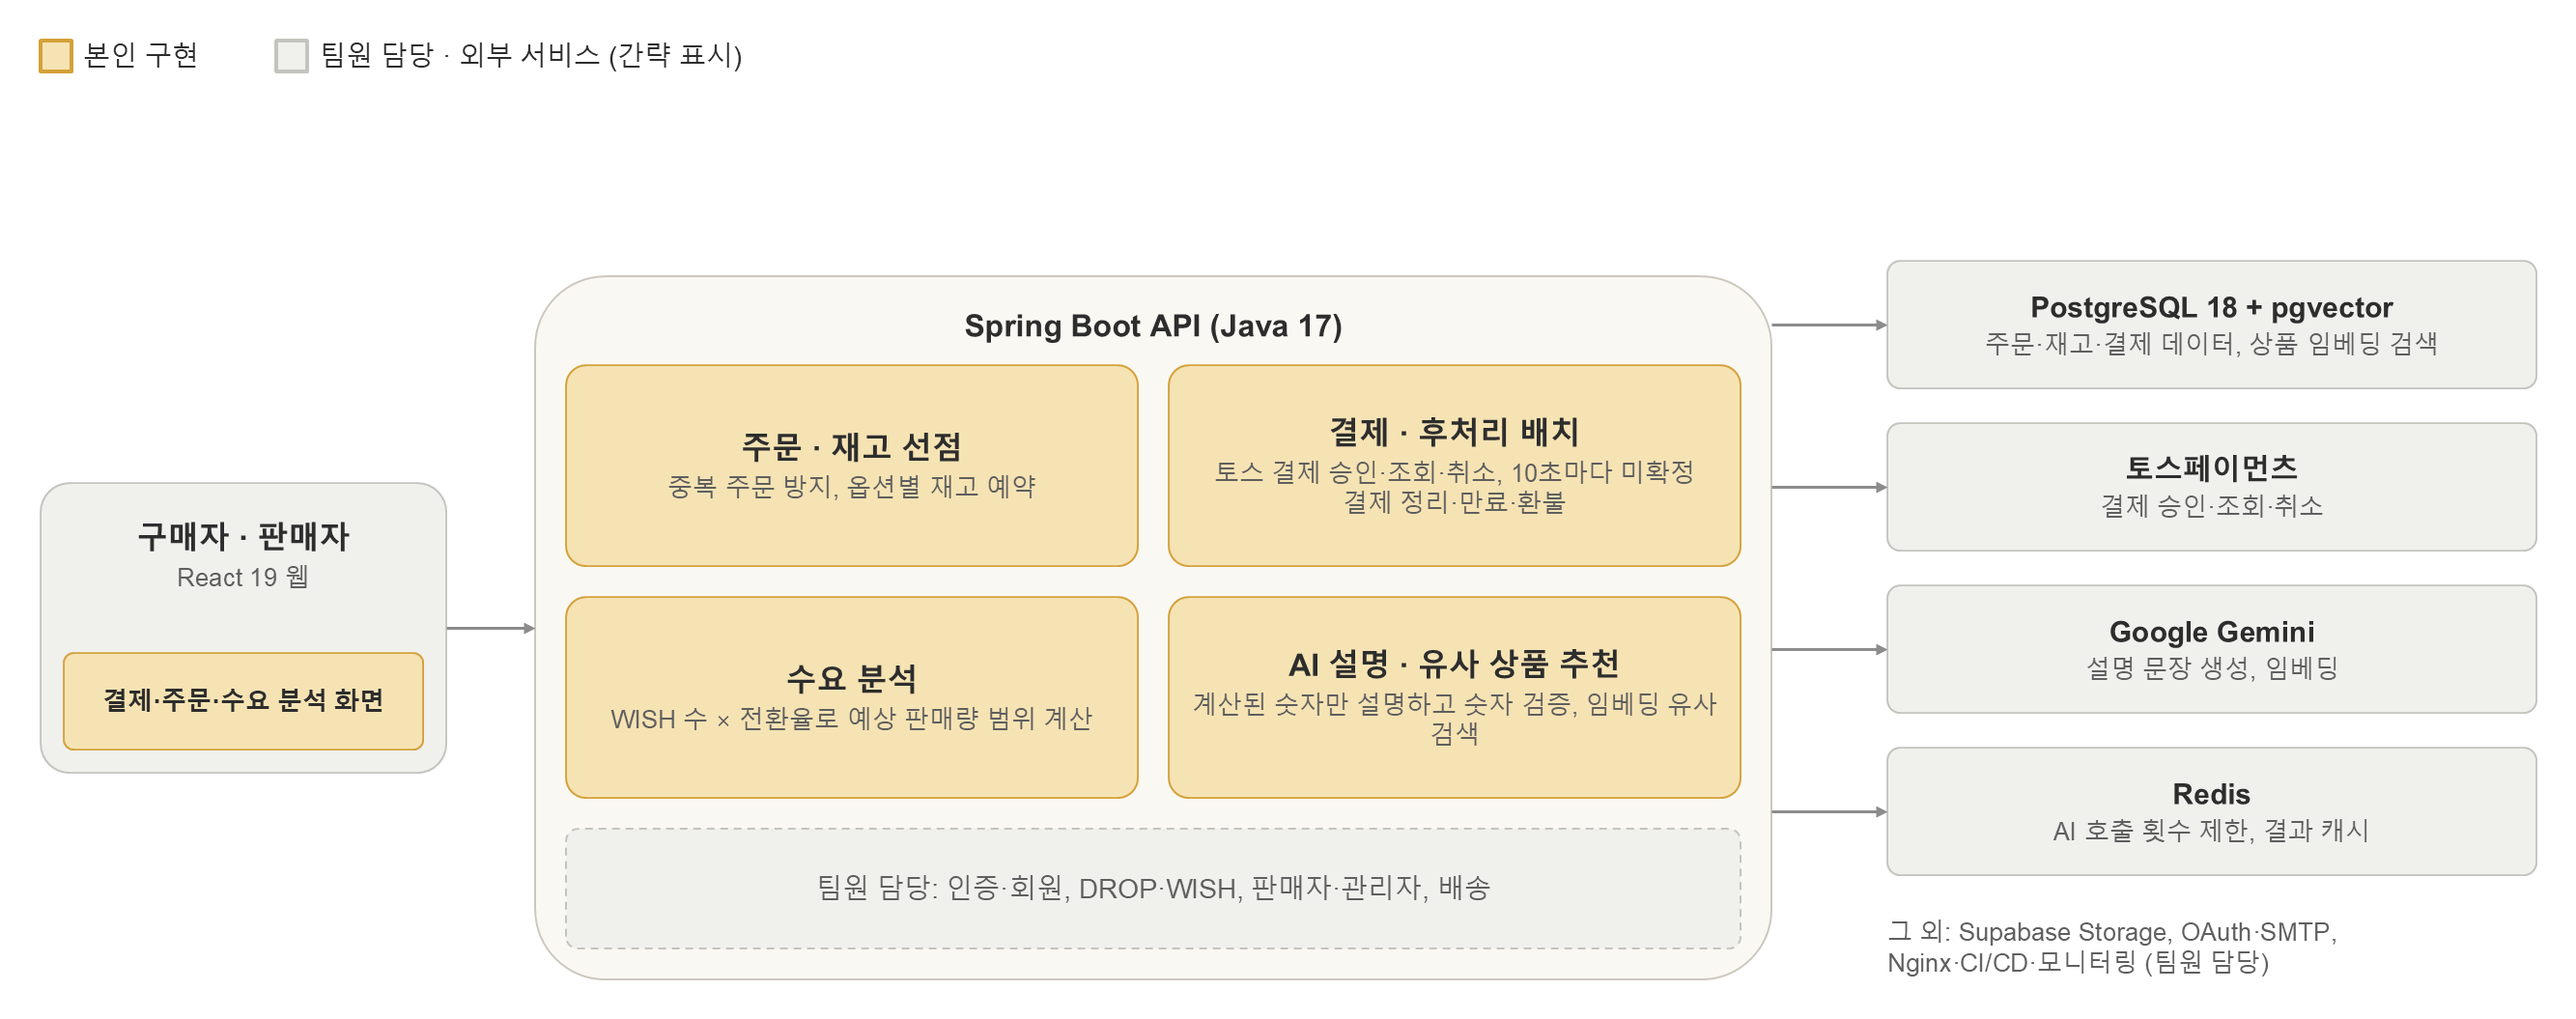
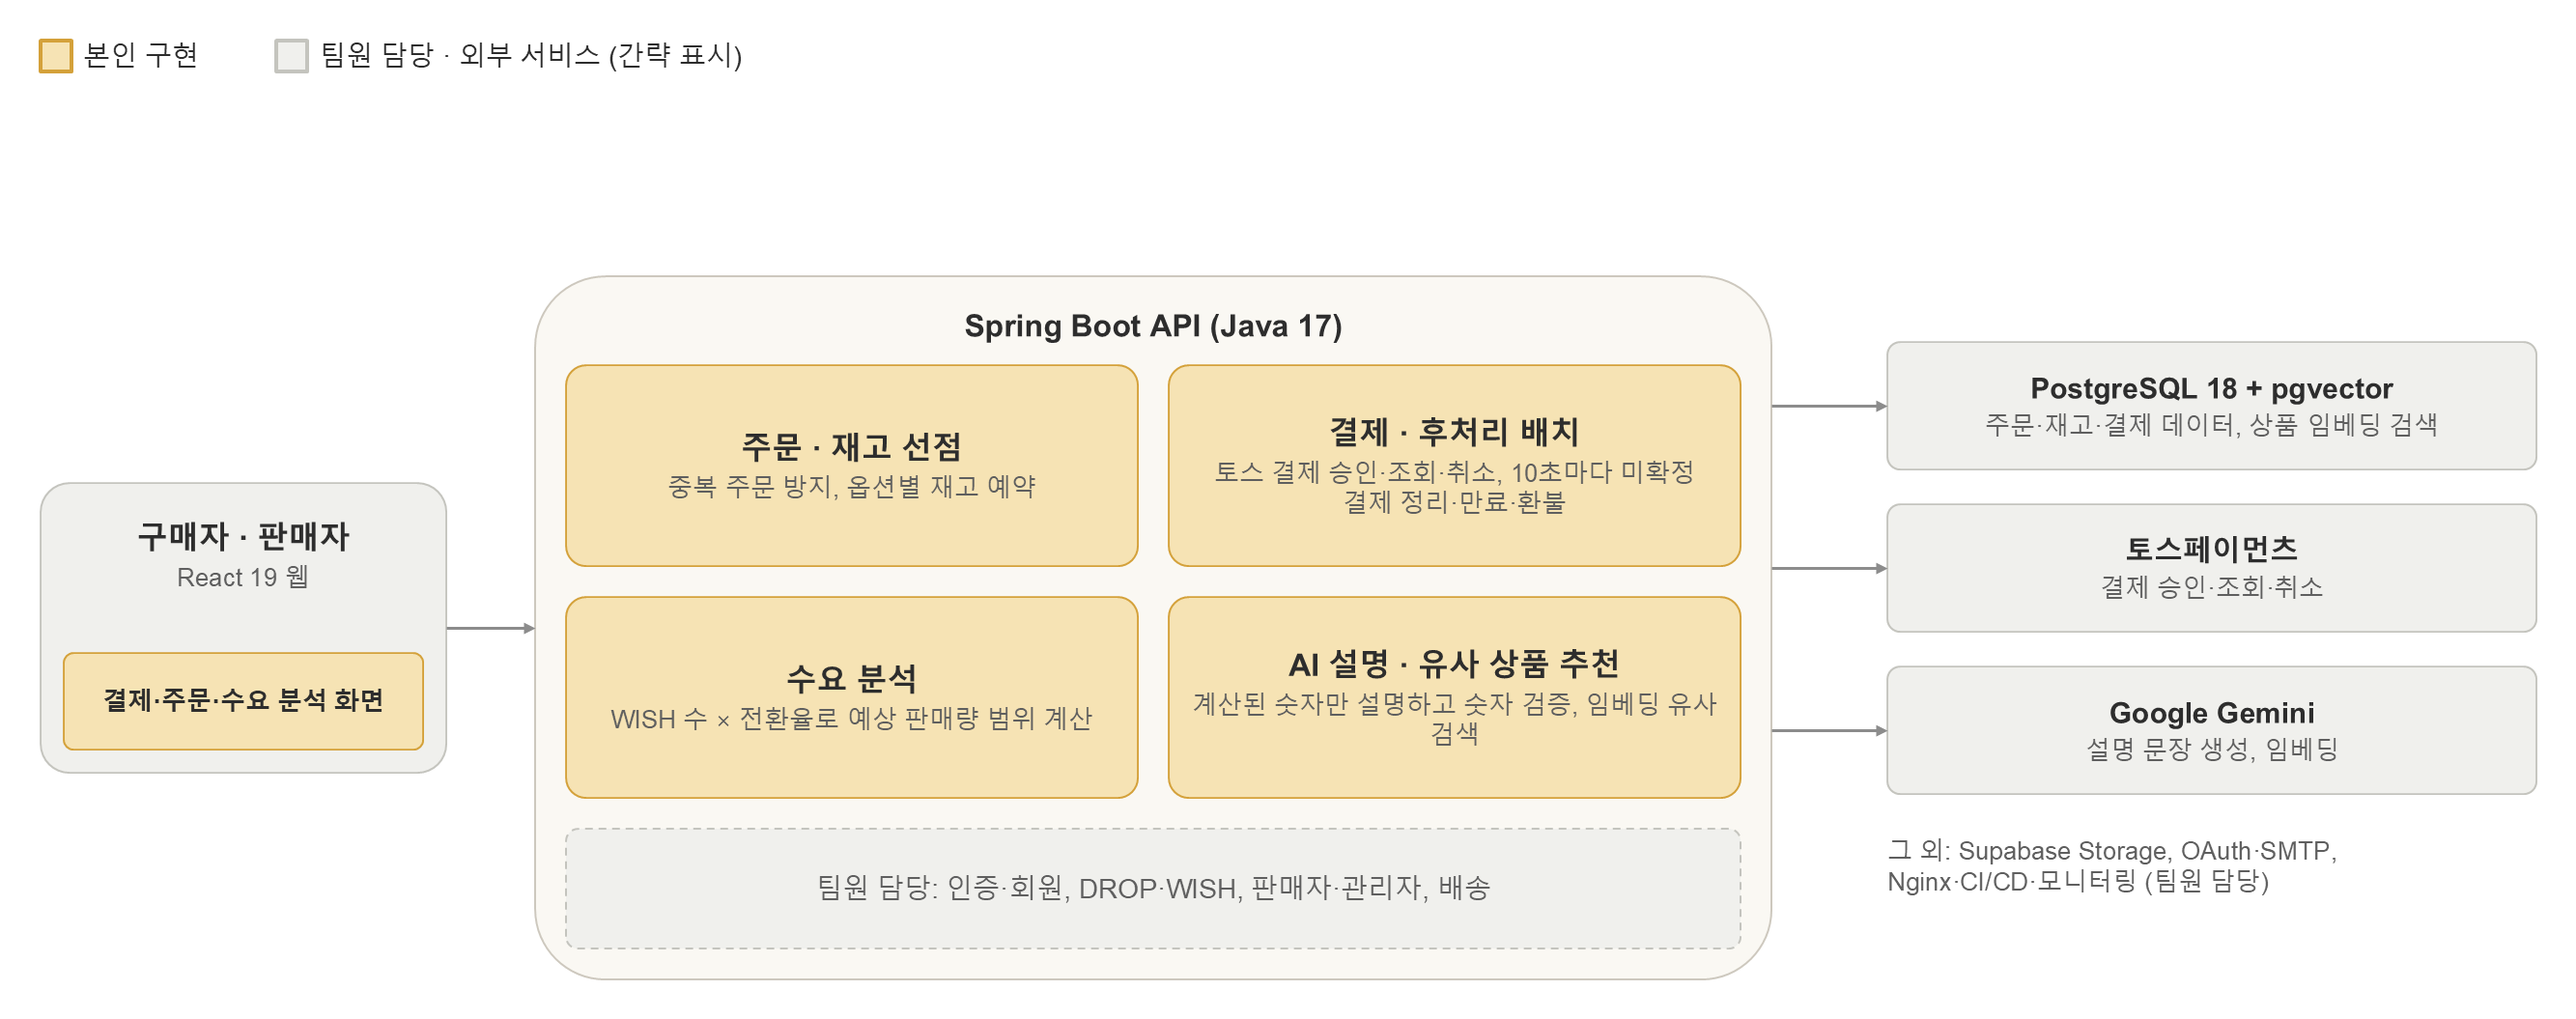
Rewrite home intro around own work, drop Redis and ERD
- Home intro lines now state what I built and measured per project
- GRAB architecture diagram no longer shows Redis
- Remove the GRAB ERD image

diff --git a/src/data/portfolio.ts b/src/data/portfolio.ts
@@ -41,9 +41,10 @@ export const profile = {
   email: 'jmkk9345@naver.com',
   github: 'https://github.com/jmin4078',
   intro: [
-    '숫자 계산·검증은 서버가, 문장 작성은 AI가 맡도록 나누고, 평가 문항으로 프롬프트 개선 효과와 부작용을 함께 측정합니다.',
-    '결제사 응답이 끊겨도 중복 주문 방지 키와 후처리 배치로 주문·재고·결제 상태를 맞춥니다.',
-    '팀 프로젝트 3회 중 2회(BaroHae, Packing) 팀장을 맡았습니다.',
+    'GRAB에서 주문·결제를 맡아 중복 주문 방지, 재고 선점, 10초마다 도는 결제 후처리 배치를 구현했습니다. 결제사 응답이 끊겨 승인된 결제의 돈이 묶이던 문제를 배치 순서를 바꾸고 자동 환불을 넣어 해결했습니다.',
+    'GRAB 수요 분석과 BaroHae 작업자 추천에서 숫자는 서버가 계산하고 AI는 설명 문장만 쓰게 했습니다. AI 설명 속 숫자가 서버 계산값과 다르면 설명을 버리도록 검증했습니다.',
+    'BaroHae AI 업무 초안을 평가 문항 29개로 3회씩 측정해 프롬프트 인젝션 차단율을 86.7%에서 100%로 올렸고, 그 과정에서 새로 생긴 민감정보 노출 1건을 찾아냈습니다.',
+    'BaroHae·Packing에서 팀장을 맡으면서 직접 백엔드·UI 총괄(BaroHae)과 로그인·커뮤니티·AI 일정 API 첫 버전(Packing)을 구현했습니다.',
   ],
 }
 
@@ -99,7 +100,6 @@ export const projects: Project[] = [
     ],
     diagrams: [
       { src: 'images/arch-grab.png', alt: 'GRAB 시스템 아키텍처', caption: '시스템 아키텍처 · 주황색이 직접 구현한 부분, 회색은 팀원 담당·외부 서비스' },
-      { src: 'images/grab-erd.png', alt: 'GRAB ERD', caption: 'ERD 주요 테이블 · 주황색이 담당 테이블' },
     ],
     troubleshooting: [
       {
